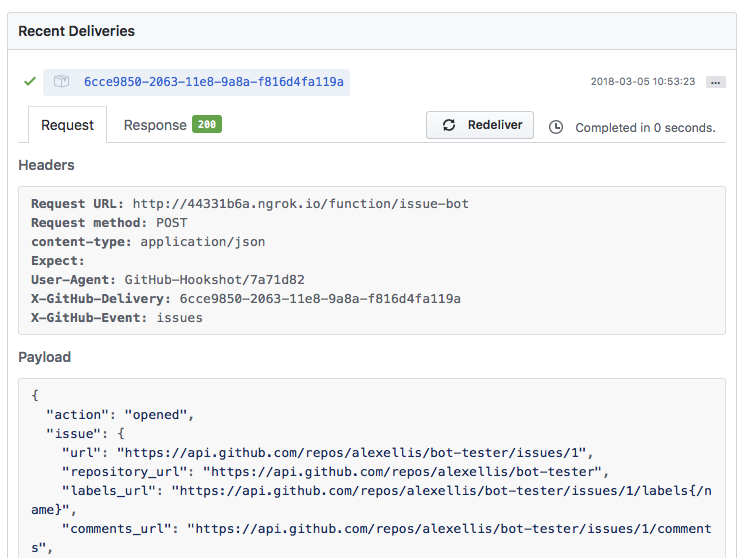
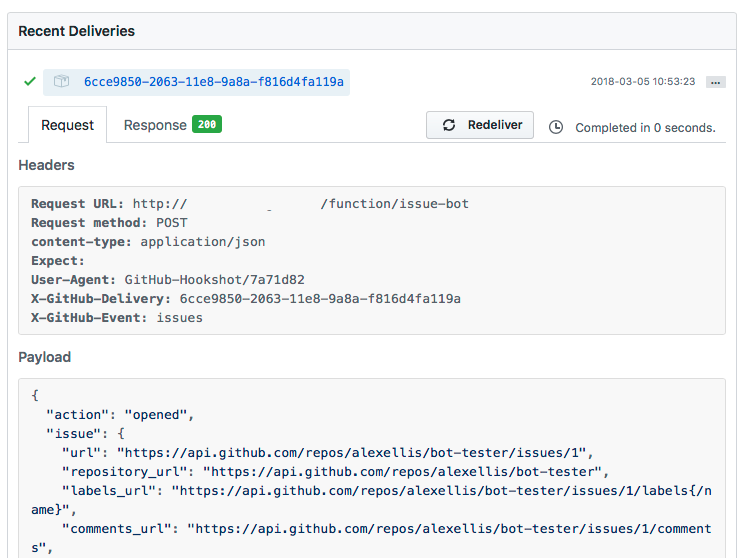
Convert from broken Ngrok to inlets
Fixes: #196

diff --git a/lab5.md b/lab5.md
@@ -13,7 +13,7 @@ We're going to use OpenFaaS functions to create a GitHub bot named `issue-bot`.
 
 The job of issue-bot is to triage new issues by analysing the sentiment of the "description" field, it will then apply a label of *positive* or *review*. This will help the maintainers with their busy schedule so they can prioritize which issues to look at first.
 
-![](./diagram/issue-bot.png)
+![Diagram of the issue bot](./diagram/issue-bot.png)
 
 ## Get a GitHub account
 
@@ -23,58 +23,92 @@ The job of issue-bot is to triage new issues by analysing the sentiment of the "
 
 Note: we will only use this repository as a testing ground for creating Issues. You don't need to commit any code there.
 
-## Set up a tunnel with ngrok
+## Set up a tunnel with inlets
 
-You will need to receive incoming webhooks from GitHub. In production you will have a clear route for incoming traffic but within the constraints of a workshop we have to be creative.
+You will need to receive incoming webhooks from GitHub. Fortunately, inlets makes this very quick and simple. It's available on a monthly or annual subscription, so if you are not sure if you are going to need it all year, you can just pay for a single month.
 
-Open a new Terminal and type in:
+inlets has a Kubernetes integration called the inlets-operator. You can use it to setup LoadBalancers or Ingress with TLS. It works by creating a cloud VM for you and running a tunnel server there, it then runs a tunnel client as a Pod for you and you get incoming traffic.
 
-```
-$ kubectl -n openfaas run \
---image=alexellis2/ngrok-admin \
---port=4040 \
-ngrok -- http gateway:8080
+Create a write access token under the API page of your preferred cloud provider, such as DigitalOcean, then save the contents to `digital-ocean-api-token.txt`.
 
-$ kubectl -n openfaas expose deployment ngrok \
---type=NodePort \
---name=ngrok
+After setting your subscription, save your key to `$HOME/.inlets/LICENSE` and run the following:
 
-$ kubectl port-forward deployment/ngrok 4040:4040 -n openfaas
+```bash
+arkade install inlets-operator \
+  --provider digitalocean \
+  --region lon1 \
+  --token-file $HOME/digital-ocean-api-token.txt
 ```
 
-Use the built-in UI of `ngrok` at http://127.0.0.1:4040 to find your HTTP URL. You will be given a URL that you can access over the Internet, it will connect directly to your OpenFaaS API Gateway.
+This will deploy the inlets-operator and instruct it to provision new hosts on DigitalOcean into the London region for your tunnel servers. Other providers and regions are available, [see the docs for more](https://docs.inlets.dev/reference/inlets-operator/).
 
-> Note: `ngrok` also provides a JSON API at `http://127.0.0.1:4040/api/tunnels`
+## Log into your gateway with the Gateway's public IP
 
-## Log into the gateway with the ngrok address
+Retrieve your gateway password with the message from:
 
-Since we now have a new URL for ngrok let's save login details for the new URL:
-
-* Retrieve your password using the [troubleshooting guide](https://docs.openfaas.com/deployment/troubleshooting/#i-forgot-my-gateway-password)
-
-* Run `export PASSWORD="value-here"
-
-* Run `export NGROK_ADDRESS=https://fuh83fhfj.ngrok.io`
-
-* Now log in: `echo $PASSWORD | faas-cli login -g $NGROK_ADDRESS --username=admin --password-stdin`
-
-Finally * test the remote URL such as https://fuh83fhfj.ngrok.io
-
-```
-$ faas-cli list --gateway https://fuh83fhfj.ngrok.io/
+```bash
+arkade info openfaas
 ```
 
-> Note: you will notice that because we used the HTTPS url, that the warning about using an insecure certificate disappeared. The OpenFaaS documentation shows [how to setup Ingress with TLS for OpenFaaS](https://docs.openfaas.com/reference/ssl/kubernetes-with-cert-manager/). If you're using a remote cluster then you can try this after completing all the labs.
+The public IP for the LoadBalancer will take around 10-30 seconds to appear:
+
+```bash
+kubectl get svc -n openfaas gateway-external
+NAME               TYPE           CLUSTER-IP    EXTERNAL-IP   PORT(S)          AGE
+gateway-external   LoadBalancer   10.96.29.46   <pending>     8080:32278/TCP   5h56m
+gateway-external   LoadBalancer   10.96.29.46   165.227.233.227   8080:32278/TCP   5h56m
+```
+
+Then save it into an environment variable:
+
+```bash
+export OPENFAAS_URL=http://165.227.233.227:8080
+```
+
+Log in with the password you were given to the public IP:
+
+```bash
+echo $PASSWORD | faas-cli login --password-stdin
+```
+
+Finally test the remote URL such as http://165.227.233.227:8080
+
+You can run commands against the remote gateway by setting the `OPENFAAS_URL` environment variable or by using the `--gateway` flag.
+
+If you'd like to expose OpenFaaS with a TLS certificate and a custom domain, you can follow these instructions instead:
+
+```bash
+arkade install ingress-nginx
+arkade install cert-manager
+arkade install openfaas
+arkade install openfaas-ingress \
+  --email web@example.com \
+  --domain openfaas.example.com
+```
+
+Then create a DNS A record pointing at the IP address of ingress-nginx:
+
+```bash
+kubectl get svc ingress-nginx-controller
+NAME                       TYPE           CLUSTER-IP     EXTERNAL-IP   PORT(S)                      AGE
+NAME                       TYPE           CLUSTER-IP     EXTERNAL-IP   PORT(S)                      AGE
+ingress-nginx-controller   LoadBalancer   10.96.179.20   <pending>     80:30319/TCP,443:31591/TCP   20s
+ingress-nginx-controller   LoadBalancer   10.96.179.20   209.97.135.63   80:30319/TCP,443:31591/TCP   52s
+```
+
+That'll now give you a custom TLS record for `https://openfaas.example.com`
 
 ## Create a webhook receiver `issue-bot`
 
-```
-$ faas-cli new --lang python3 issue-bot --prefix="<your-docker-username-here>"
+```bash
+export OPENFAAS_PREFIX="docker.io/your-username"
+$ faas-cli new --lang python3 \
+  issue-bot
 ```
 
 Now edit the function's YAML file `issue-bot.yml` and add an environmental variable of `write_debug: true`:
 
-```
+```yaml
 provider:
   name: openfaas
   gateway: http://127.0.0.1:8080
@@ -83,14 +117,14 @@ functions:
   issue-bot:
     lang: python3
     handler: ./issue-bot
-    image: <user-name>/issue-bot
+    image: docker.io/your-username/issue-bot
     environment:
       write_debug: true
 ```
 
 * Build, push and deploy the function with
 
-```
+```bash
 $ faas-cli up -f ./issue-bot.yml
 ```
 
@@ -100,15 +134,15 @@ Log back into GitHub and navigate to your repository *bot-tester*
 
 Click *Settings* -> *Webhooks* -> *Add Webhook*
 
-![](./screenshot/add_github_webhook.png)
+![Adding the webhook](./screenshot/add_github_webhook.png)
 
-Now enter the URL you were given from `ngrok` adding `/function/issue-bot` to the end, for example:
+Now enter the URL you were given from inlets or your custom domain adding `/function/issue-bot` to the end, for example:
 
 ```
-http://fuh83fhfj.ngrok.io/function/issue-bot
+https://openfaas.example.com
 ```
 
-![](./screenshot/WebhookURLSettings.png)
+![Adding the webhook](./screenshot/issue-bot-webhook.png)
 
 For *Content-type* select: *application/json*
 
@@ -118,7 +152,7 @@ And select "Let me select individual events"
 
 For events select **Issues** and **Issue comment**
 
-![](./screenshot/WebhookEventsSettings.png)
+![Setting the events](./screenshot/WebhookEventsSettings.png)
 
 ## Check it worked
 
@@ -138,7 +172,7 @@ You can see the payload sent via GitHub by typing in `docker service logs -f iss
 
 The GitHub Webhooks page will also show every message sent under "Recent Deliveries", you can replay a message here and see the response returned by your function.
 
-![](./screenshot/github_replay.png)
+![Replaying an event](./screenshot/github_replay.png)
 
 ### Deploy SentimentAnalysis function
 
@@ -214,7 +248,7 @@ Use the CLI to build and deploy the function:
 $ faas-cli up -f issue-bot.yml
 ```
 
-Now create a new issue in the `bot-tester` repository. GitHub will respond by sending a JSON payload to your function via the Ngrok tunnel we set up at the start.
+Now create a new issue in the `bot-tester` repository. GitHub will respond by sending a JSON payload to your function via the Inlets tunnel we configured earlier.
 
 You can view the request/response directly on GitHub - navigate to *Settings* -> *Webhook* as below:
 
